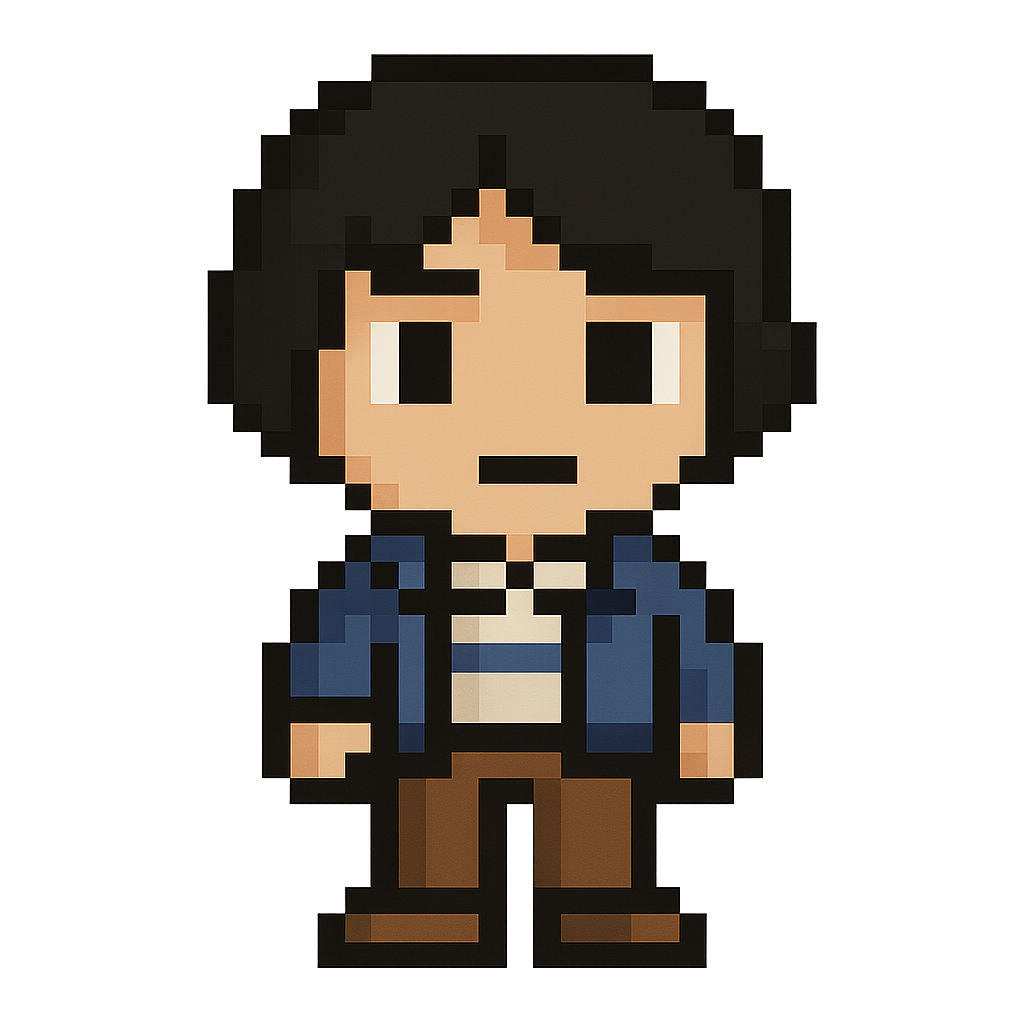
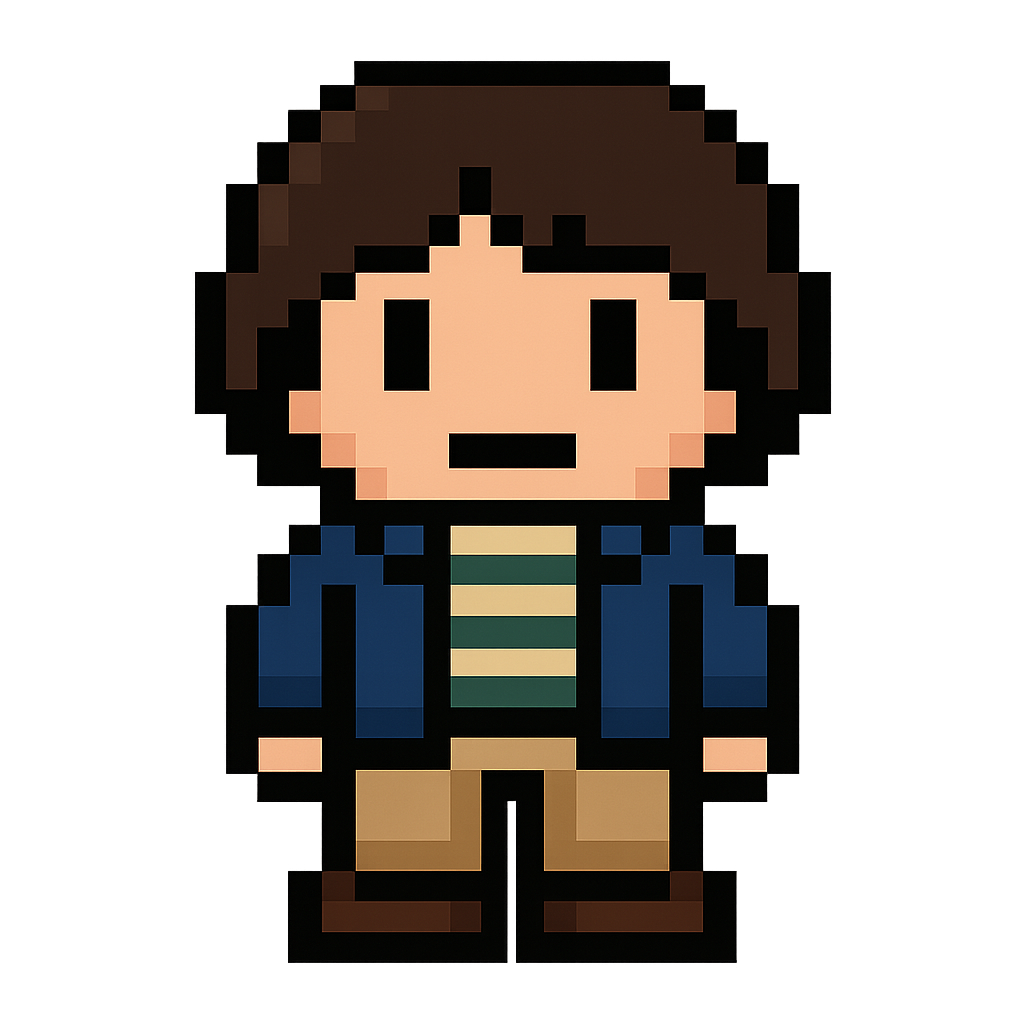
style(EndOverlay): setup an ending

Changed region(s): [[0.1875, 0.0312, 0.8125, 0.9688]]

diff --git a/src/components/EndOverlay.tsx b/src/components/EndOverlay.tsx
@@ -1,56 +1,95 @@
+import { UI_ART } from "../assets/art";
+
+type Result = "PLAYER" | "ENEMY" | "DRAW" | null;
+
 type Props = {
   open: boolean;
-  winnerText: string | null | undefined;
+  winnerText: string | null;
+  result: Result;
   onNewMatch: () => void;
 };
 
-export default function EndOverlay({ open, winnerText, onNewMatch }: Props) {
+export default function EndOverlay({ open, winnerText, result, onNewMatch }: Props) {
   if (!open) return null;
 
-  const playerWon = winnerText?.toLowerCase().includes("you");
-  const title = playerWon ? "Match Victory" : "Match Over";
-  const tag = playerWon
-    ? "Tonight, Hawkins was on your side."
-    : "The board falls quiet, but Hawkins never sleeps.";
-  const badgeText = playerWon ? "Hawkins Champion" : "Hawkins Survivor";
+  const isPlayerWin = result === "PLAYER";
+  const isEnemyWin = result === "ENEMY";
+  const isDraw = result === "DRAW";
+
+  const art =
+    isEnemyWin && UI_ART.HAWKINS_UPSIDE
+      ? UI_ART.HAWKINS_UPSIDE
+      : UI_ART.HAWKINS;
+
+  const toneClass = isPlayerWin
+    ? "border-emerald-500/80 shadow-[0_0_32px_rgba(16,185,129,0.85)]"
+    : isEnemyWin
+    ? "border-rose-500/80 shadow-[0_0_32px_rgba(248,113,113,0.9)]"
+    : "border-sky-500/70 shadow-[0_0_28px_rgba(56,189,248,0.75)]";
+
+  const badgeText = isPlayerWin
+    ? "Hawkins holds"
+    : isEnemyWin
+    ? "Upside Down surge"
+    : "Neon stalemate";
+
+  const subtitle =
+    winnerText ||
+    (isPlayerWin &&
+      "For tonight, the kids and Hawkins keep the dark one step away.") ||
+    (isEnemyWin &&
+      "The Christmas lights flicker and twist as the Upside Down pulls harder.") ||
+    (isDraw &&
+      "The board stops just short of breaking. Hawkins breathes, but the dark is still there.") ||
+    "The experiment ends, but Hawkins never really sleeps.";
 
   return (
     <div className="fixed inset-0 z-40 flex items-center justify-center px-4 sm:px-6">
-      <div className="absolute inset-0 bg-black/75 backdrop-blur-sm" />
-      <div className="relative z-50 w-full max-w-md rounded-3xl border border-slate-800 bg-slate-950/95 shadow-[0_0_60px_rgba(15,23,42,1)] px-4 py-5 sm:px-5 sm:py-6">
-        <div className="flex flex-col items-center text-center gap-3">
-          <div className="inline-flex items-center rounded-full border border-rose-500/70 bg-slate-950/90 px-3 py-1 text-[0.7rem] uppercase tracking-[0.22em] text-rose-200 shadow-[0_0_26px_rgba(248,113,113,0.9)]">
-            <span className="mr-1.5 inline-flex h-1.5 w-1.5 rounded-full bg-rose-400 animate-pulse" />
-            {badgeText}
+      <div className="absolute inset-0 bg-black/80 backdrop-blur-md" />
+      <div
+        className={`relative z-50 w-full max-w-lg rounded-3xl border bg-slate-950/95 ${toneClass} px-4 py-5 sm:px-6 sm:py-6`}
+      >
+        <div className="flex flex-col gap-4 sm:gap-5">
+          <div className="flex items-start justify-between gap-3">
+            <div className="flex flex-col gap-1.5">
+              <span className="inline-flex items-center rounded-full border border-slate-700 bg-slate-950/90 px-3 py-1 text-[0.7rem] uppercase tracking-[0.22em] text-slate-300">
+                Match complete
+              </span>
+              <h2 className="text-xl sm:text-2xl font-semibold tracking-[0.24em] uppercase text-slate-50">
+                {badgeText}
+              </h2>
+              <p className="text-[0.8rem] sm:text-sm text-slate-200 leading-snug max-w-md">
+                {subtitle}
+              </p>
+            </div>
           </div>
 
-          <h2 className="text-xl sm:text-2xl font-semibold tracking-[0.24em] uppercase text-slate-50">
-            {title}
-          </h2>
+          <div className="relative w-full">
+            <div className="relative mx-auto w-full max-w-md overflow-hidden rounded-2xl border border-slate-800/80 bg-slate-900/80">
+              <div className="absolute inset-0 pointer-events-none bg-gradient-to-t from-slate-950/70 via-slate-950/10 to-transparent" />
+              <img
+                src={art.src}
+                alt={art.alt}
+                className={`h-full w-full object-cover ${
+                  isEnemyWin ? "rotate-180" : ""
+                }`}
+                draggable={false}
+              />
+            </div>
+          </div>
 
-          <p className="text-[0.75rem] sm:text-sm text-slate-300 leading-snug max-w-sm">
-            {winnerText || "The neon hums softly as this Hawkins experiment comes to an end."}
-          </p>
-
-          <p className="text-[0.7rem] text-slate-400 uppercase tracking-[0.18em]">
-            {tag}
-          </p>
-
-          <div className="mt-3 flex flex-col sm:flex-row items-center justify-center gap-2 w-full">
+          <div className="flex flex-col sm:flex-row items-center justify-between gap-3">
+            <p className="text-[0.75rem] text-slate-400 leading-snug max-w-xs">
+              Start another run to see if Hawkins stays safe, or if the Upside Down decides
+              to tip the board next time.
+            </p>
             <button
               type="button"
               onClick={onNewMatch}
-              className="inline-flex w-full sm:w-auto items-center justify-center rounded-full border border-rose-500/80 bg-rose-600/90 px-6 py-2 text-xs sm:text-sm font-semibold uppercase tracking-[0.22em] text-slate-50 shadow-[0_0_26px_rgba(248,113,113,0.9)] hover:bg-rose-500 hover:border-rose-400 focus-visible:outline-none focus-visible:ring-2 focus-visible:ring-rose-400 focus-visible:ring-offset-2 focus-visible:ring-offset-slate-950"
+              className="inline-flex w-full sm:w-auto items-center justify-center rounded-full border border-slate-200/80 bg-slate-50/95 px-6 py-2 text-xs sm:text-sm font-semibold uppercase tracking-[0.2em] text-slate-900 hover:bg-white hover:border-white focus-visible:outline-none focus-visible:ring-2 focus-visible:ring-rose-400 focus-visible:ring-offset-2 focus-visible:ring-offset-slate-950"
             >
-              Start new match
+              New match
             </button>
-          </div>
-
-          <div className="mt-2 text-[0.65rem] text-slate-500 leading-snug">
-            <p>
-              Tune the rounds, reshuffle your instincts and see if Hawkins tells a different story
-              next time.
-            </p>
           </div>
         </div>
       </div>

diff --git a/src/App.tsx b/src/App.tsx
@@ -147,6 +147,15 @@ export default function App() {
   const heroMeta = HERO_META[hero];
   const heroArt = HEROES[hero];
 
+  const matchResult =
+    !matchOver
+      ? null
+      : match.player > match.enemy
+      ? "PLAYER"
+      : match.player < match.enemy
+      ? "ENEMY"
+      : "DRAW";
+
   if (showHome) {
     return (
       <StartScreen
@@ -176,7 +185,6 @@ export default function App() {
                 className={[
                   "hidden sm:flex items-center gap-2 rounded-full border bg-slate-950/80 px-2.5 py-1 transition-all",
                   "border-slate-700 hover:border-rose-400 hover:shadow-[0_0_18px_rgba(248,113,113,0.8)]",
-                  heroJustChanged ? "animate-pulse ring-1 ring-rose-500/70" : "",
                 ]
                   .filter(Boolean)
                   .join(" ")}
@@ -205,7 +213,6 @@ export default function App() {
                 className={[
                   "flex sm:hidden items-center gap-2 rounded-full border bg-slate-950/80 px-2 py-0.5 transition-all",
                   "border-slate-700 hover:border-rose-400 hover:shadow-[0_0_18px_rgba(248,113,113,0.8)]",
-                  heroJustChanged ? "animate-pulse ring-1 ring-rose-500/70" : "",
                 ]
                   .filter(Boolean)
                   .join(" ")}
@@ -399,6 +406,7 @@ export default function App() {
           <EndOverlay
             open={matchOver}
             winnerText={winnerText}
+            result={matchResult}
             onNewMatch={() => {
               resetMatch();
               setStarted(false);

diff --git a/src/assets/art.ts b/src/assets/art.ts
@@ -14,11 +14,16 @@ import type { HawkinsSymbol } from "@its-me-mayday/hawkins-control";
 import gear from "./gear.png";
 import icon from "./icon.png";
 import stats from "./stats.png";
+import hawkins from "./hawkins.png";
+import hawkinsUpside from "./hawkins-upside.png";
 
 export const UI_ART = { 
   GEAR: { src: gear, alt: "Settings" },
   ICON: { src: icon, alt: "Icon" },
-  STATS: { src: stats, alt: "Stats" } };
+  STATS: { src: stats, alt: "Stats" },
+  HAWKINS: { src: hawkins, alt: "Hawkins, Indiana" },
+  HAWKINS_UPSIDE: { src: hawkinsUpside, alt: "Hawkins, The Upside Down" },
+ };
 
   export const HEROES = {
     DUSTIN: { src: dustin, alt: "dustin" },
